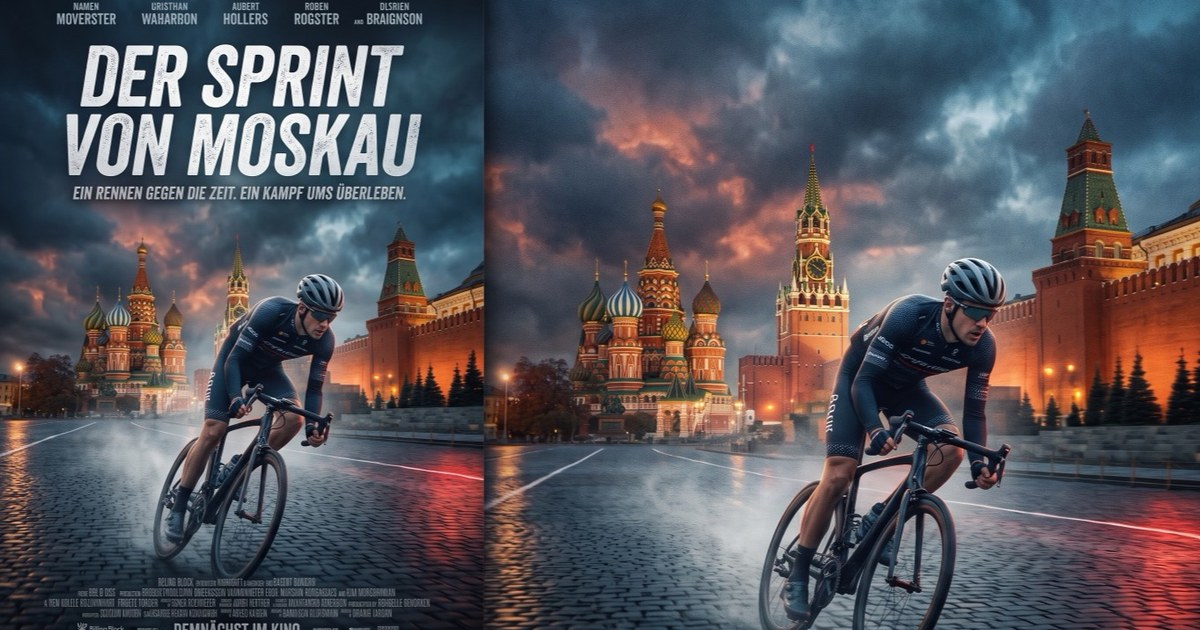
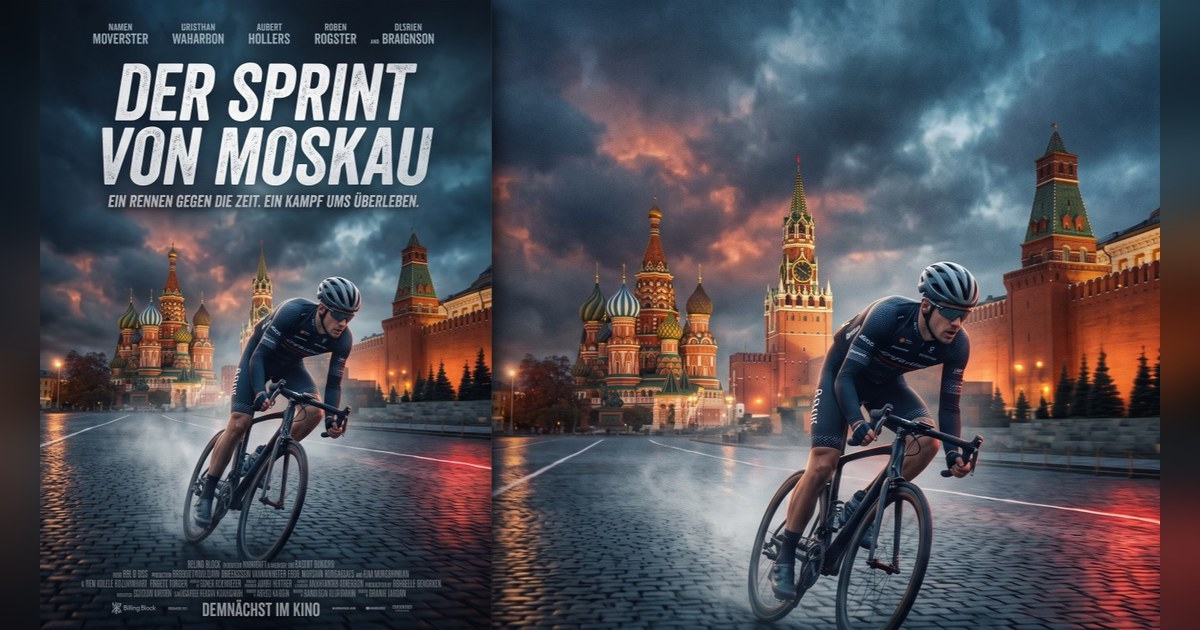
Donauinsel ride: new landscape poster as index thumbnail and social preview
Preview images now show the whole thumbnail on a blurred backdrop instead of
cropping it, so poster lettering at the edges survives.

diff --git a/index.html b/index.html
@@ -127,7 +127,7 @@ footer{margin-top:14px;font-size:10px;color:var(--text2);text-shadow:0 1px 0 var
 
 <div class="section-lbl"><i>🍂</i>3D-Fahrt Donauinsel</div>
 <div class="card mint">
-  <a class="thumb-link" href="karte_7.10_golden-autumn-on-vienna-s-donauinsel_3d.html"><img class="thumb" style="aspect-ratio:637/980" src="karte_7.10_golden-autumn-on-vienna-s-donauinsel_3d.jpg" alt="Plakat „Donauinsel Wien“: Rennradfahrer an der Donau, dahinter Brücke, UNO-City und Donauturm"><span class="play" aria-hidden="true">▶ Mitfahren</span></a>
+  <a class="thumb-link" href="karte_7.10_golden-autumn-on-vienna-s-donauinsel_3d.html"><img class="thumb" src="karte_7.10_golden-autumn-on-vienna-s-donauinsel_3d.jpg" alt="Plakat „Donauinsel Wien“: Rennradfahrer an der Donau, dahinter Brücke, UNO-City und Donauturm"><span class="play" aria-hidden="true">▶ Mitfahren</span></a>
   <a class="link-row" href="karte_7.10_golden-autumn-on-vienna-s-donauinsel_3d.html" title="karte_7.10_golden-autumn-on-vienna-s-donauinsel_3d.html">
     <div class="ico">🍂</div>
     <div class="txt"><div class="link-title">3D-Fahrt · 7.10.</div></div>

diff --git a/.claude/skills/kinomap-karte/scripts/kinomap_karte.py b/.claude/skills/kinomap-karte/scripts/kinomap_karte.py
@@ -164,22 +164,20 @@ def social_preview(out_dir: Path, base: str, title: str, desc: str) -> str:
     """Open Graph / Twitter tags for the 3D page, or "" if the ride has no thumbnail.
 
     The preview picture <base>_3d_og.jpg (1200x630, what the networks expect) is derived from
-    the hand-made index thumbnail <base>_3d.jpg: cropped to fill, or — for a portrait picture
-    such as a poster — shown whole on a blurred copy of itself. Crawlers don't run scripts, so
-    the tags have to be in the static HTML rather than set from the ride data at load time.
+    the hand-made index thumbnail <base>_3d.jpg, shown whole on a blurred copy of itself —
+    never cropped, because the thumbnails are often posters with lettering right up to the
+    edge. Crawlers don't run scripts, so the tags have to be in the static HTML rather than
+    set from the ride data at load time.
     """
     thumb = out_dir / f"{base}_3d.jpg"
     if not thumb.is_file():
         return ""
     from PIL import Image, ImageFilter, ImageOps
     src = Image.open(thumb).convert("RGB")
-    if src.width / src.height >= 1.3:
-        og = ImageOps.fit(src, OG_SIZE, Image.LANCZOS)
-    else:
-        og = ImageOps.fit(src, OG_SIZE, Image.LANCZOS).filter(ImageFilter.GaussianBlur(24))
-        og = og.point(lambda v: v * 0.6)
-        fg = ImageOps.contain(src, OG_SIZE, Image.LANCZOS)
-        og.paste(fg, ((OG_SIZE[0] - fg.width) // 2, (OG_SIZE[1] - fg.height) // 2))
+    og = ImageOps.fit(src, OG_SIZE, Image.LANCZOS).filter(ImageFilter.GaussianBlur(24))
+    og = og.point(lambda v: v * 0.6)
+    fg = ImageOps.contain(src, OG_SIZE, Image.LANCZOS)
+    og.paste(fg, ((OG_SIZE[0] - fg.width) // 2, (OG_SIZE[1] - fg.height) // 2))
     og.save(out_dir / f"{base}_3d_og.jpg", quality=88)
     e = html_lib.escape
     page, img = SITE_URL + urlquote(f"{base}_3d.html"), SITE_URL + urlquote(f"{base}_3d_og.jpg")

diff --git a/CLAUDE.md b/CLAUDE.md
@@ -109,7 +109,7 @@ Both pages are the same per-second track (`lat`/`lon`, `dist`, `ele`, `watt`, `h
 - Profile strip top left (speed, power, pulse, elevation over distance; click or drag to seek) and the cockpit at the bottom (four dials: speed, power, pulse, cadence; plus distance, time, elevation). The strip is hidden on narrow screens.
 - Sound: pedal strokes, chain whirr, breathing and heartbeat synthesized with Web Audio (filtered noise and sine thumps, no audio files). It follows the ride's real cadence rather than the playback speed-up — at 30× the true rhythm would be a 45 Hz buzz — gets louder with power and is silent at cadence 0. On top of that a breathing sound whose rate is stretched over this ride's own power range: the ride's lowest watt reading breathes at 14 breaths/min, its highest at 50 (`BREATH` in the template), linearly in between, with a slow glide so it lags the power like real breathing; it is mixed quietly, under the pedals. And a heartbeat ("lub-dub", two short low sine thumps) at the pulse measured at that moment of the ride (`hf`), also in real time rather than sped up. The sound checkbox ("Ton") mutes everything. It starts only on the click on the play button, because browsers block audio before a user gesture.
 - All five overlays (title, profile strip, rider's-eye inset, playback controls, cockpit) can be moved and minimised. The template's script gives each a `.bar` with a label and a "–" button: the button shrinks the panel to that bar (a minimised inset is also no longer rendered), and a panel is dragged by its bar or by any spot that isn't a control — the profile strip and the inset only by the bar, since the strip's canvas seeks and the inset lets the scene's orbit drag through. Double-clicking the bar sends it home. A drag is a CSS `translate` on top of the normal position, so the responsive layout and the phone stacking in `resize()` keep working; nothing is remembered across reloads.
-- Social-media preview: the script writes Open Graph / Twitter tags into the page head (the `<!--__SOCIAL__-->` placeholder) — title, a one-line summary (km, duration, average watt, date) and a 1200×630 picture `karte_<D.M>_<route>_3d_og.jpg`, which it derives from the hand-made index thumbnail `karte_<D.M>_<route>_3d.jpg` (cropped to fill; a portrait picture is shown whole on a blurred copy of itself). No thumbnail, no tags — so add the thumbnail first, then rerun. The tags carry absolute URLs (`SITE_URL` in the script, the GitHub Pages address), because link crawlers neither run scripts nor resolve relative paths.
+- Social-media preview: the script writes Open Graph / Twitter tags into the page head (the `<!--__SOCIAL__-->` placeholder) — title, a one-line summary (km, duration, average watt, date) and a 1200×630 picture `karte_<D.M>_<route>_3d_og.jpg`, which it derives from the hand-made index thumbnail `karte_<D.M>_<route>_3d.jpg` (shown whole on a blurred copy of itself, never cropped — the thumbnails are often posters with lettering up to the edge). No thumbnail, no tags — so add the thumbnail first, then rerun. The tags carry absolute URLs (`SITE_URL` in the script, the GitHub Pages address), because link crawlers neither run scripts nor resolve relative paths.
 - URL parameters: `?t=<seconds>` start position, `?follow` start in follow mode, `?spin` start with the automatic rotation on, `?shot` for headless-Chrome screenshots, `?rec` hands the clock to `scripts/record_video.py` (frame-by-frame `.mp4` capture, only run on request; the video has no audio and is never committed).
 
 ## Key domain facts
